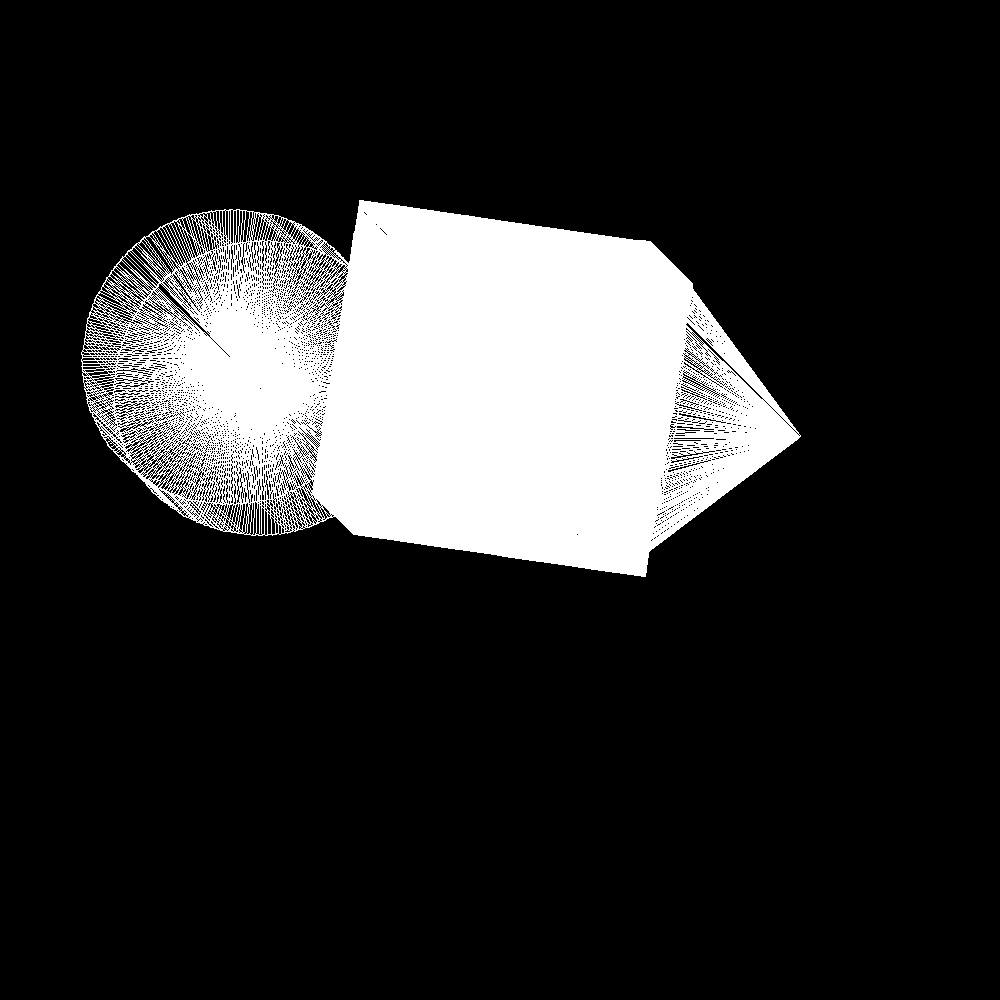
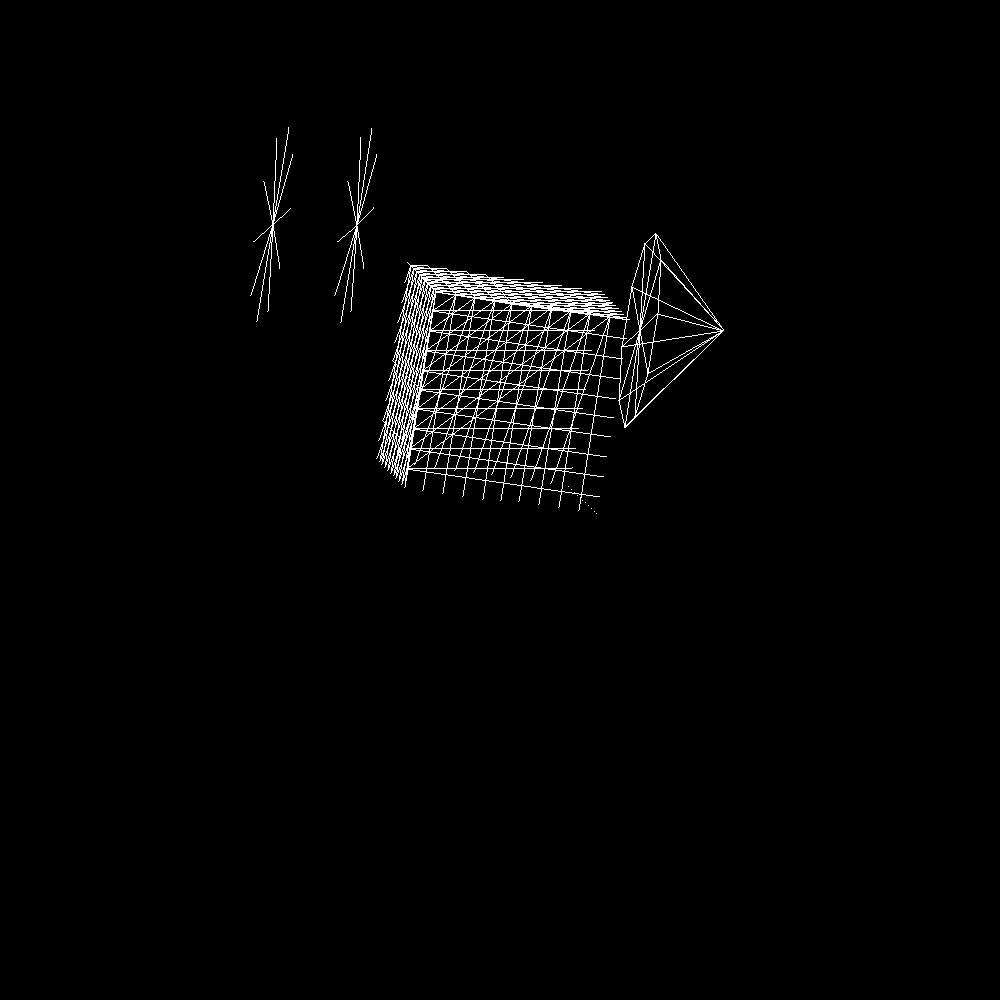
fixed cone, almost done cylinder

Changed region(s): [[0.062, 0.186, 0.806, 0.589]]

diff --git a/a1.py b/a1.py
@@ -402,56 +402,54 @@ def cylinder(resolution, mesh, vol, isScene, xangle, yangle, zangle):
         List -- A dictionary where each key is a coord object, and it maps to a list of coord objects
         List -- A matrix which contains coord objects for each point of the cylinder
     """
-    points, angles = circleCoords(vol, 0, vol, 'x', resolution, vol)
-    finalPoints = []
-    matrix = []
+
+    points = []
+
+    points.append(coords(0, vol, -vol))
+    points.append(coords(0, 0, 0))
+
+    testList = newCirc(resolution, 'z', vol)
+
+    tempList = copy.deepcopy(testList)
+
+    for k in tempList:
+        k.set_y(k.get_y() + vol)
+        k.set_z(k.get_z() - vol)
+
+
+    newList = points + testList + tempList
+
+    print(len(newList))
+
+
+    coordSet = [x for x in testList]
+
     connections = {}
-    for x in points:
-        if x not in finalPoints:
-            finalPoints.append(x)
-
-    coordList = [coords(x[0], x[1], x[2]) for x in finalPoints]
-
-    for k in coordList:
-        k.set_x(k.xCoord)
-        k.set_y(k.yCoord)
-        k.set_z(k.zCoord)
-        matrix.append(k)
-
-    coordSet = [x for x in matrix]
+    faceDict = {}
+    
 
     test = []
 
+    finalConnect = []
+
     if mesh == "tri":
-        test = connectCircle(resolution, coordSet[0], 'x', matrix, vol)
-        connections[coordSet[0]] = test
-    elif mesh == "poly":
-        connections = {}
+        
+        for first, second in zip(newList[2:], newList[3:]):
+            connections[first] = [newList[0], newList[1], second]
+            connections[second] = [newList[0], newList[1], first]
+
+        connections[newList[-1]] = [newList[0], newList[2], newList[1]]
+
+
+        
+
+        
+
+        newMatrix = newList
     else:
         print("not a valid mesh")
         sys.exit(1)
-
-    newMatrix = matrix + test
-
-    secondCircle = copy.deepcopy(newMatrix)
-    secondTest = copy.deepcopy(test)
-
-    for k in secondCircle:
-        k.set_z(k.zCoord + vol*1.5)
-
-    for k in secondTest:
-        k.set_z(k.zCoord + vol*1.5)
-
-    connections[secondCircle[0]] = secondTest
-
-    for k in range(0, len(secondTest)):
-        testing = []
-        testing.append(secondTest[k])
-        connections[test[k]] = testing
-
-    secondMatrix = secondCircle + secondTest
-
-    newMatrix.extend(secondMatrix)
+    
 
     if isScene:
 
@@ -479,6 +477,33 @@ def cylinder(resolution, mesh, vol, isScene, xangle, yangle, zangle):
     return connections, newMatrix
 
 
+def newCirc(res, axis, vol):
+
+
+    r = volume - 1
+    angle = 0
+    connectList = []
+    finalConnect = []
+
+    for i in range(0, res):
+
+        # create an angle between 0 and 2pi that is split evenly by the resolution number
+        angle = i * (6.28 / res)
+
+        # calculate new x and y coordinates that meet the angle specified.
+        if axis == 'x':
+            x = r * math.cos(angle)
+            y = r * math.sin(angle)
+            connectList.append(coords(x, y, -volume))
+        elif axis == 'z':
+            x = r * math.cos(angle)
+            z = r * math.sin(angle)
+            connectList.append(coords(x, 0, z))
+    return connectList
+
+
+
+
 def cone(res, mesh, vol, isScene, xangle, yangle, zangle):
     """Creates a cone
 
@@ -488,68 +513,38 @@ def cone(res, mesh, vol, isScene, xangle, yangle, zangle):
         res {[type]} -- The number of triangles to create
         mesh {[type]} -- the type of mesh to create.
     """
-    points, angles = circleCoords(vol, -vol, vol, 'z', res, vol)
-    finalPoints = []
-    matrix = []
+    
+    points = []
+
+    points.append(coords(0, vol, -vol))
+    points.append(coords(0, 0, 0))
+
+    testList = newCirc(res, 'z', vol)
+
+    newList = points + testList
+
+    print(len(newList))
+
+
+    coordSet = [x for x in testList]
+
     connections = {}
-    for x in points:
-        if x not in finalPoints:
-            finalPoints.append(x)
-
-    coordList = [coords(x[0], x[1], x[2]) for x in finalPoints]
-
-    for k in coordList:
-        k.set_x(k.xCoord)
-        k.set_y(k.yCoord)
-        k.set_z(k.zCoord)
-        matrix.append(k)
-
-    coordSet = [x for x in matrix]
+    faceDict = {}
+    
 
     test = []
 
     finalConnect = []
 
     if mesh == "tri":
-        test = connectCircle(res, coordSet[0], 'z', matrix, volume)
-        for k in test:
-            nearest = min(matrix, key=lambda x: (math.sqrt((k.get_x() - x.get_x())**2 + (k.get_y() - x.get_y())**2 + (k.get_z() - x.get_z())**2)))
-            finalConnect.append(nearest)
 
-        newConnect = finalConnect
+        for first, second in zip(newList[2:], newList[3:]):
+            connections[first] = [newList[0], newList[1], second]
+            connections[second] = [newList[0], newList[1], first]
 
-        connections[coordSet[0]] = finalConnect
-        connections[coordSet[1]] = newConnect
+        connections[newList[-1]] = [newList[0], newList[2], newList[1]]
 
-        print(connections)
-
-        faceDict = {}
-        count = 6
-
-        for first, second in zip(newConnect, newConnect[1:]):
-            connections[first] = [coordSet[0], second]
-            connections[second] = [coordSet[0], first]
-            faceDict[count] = [coordSet[0], first, second]
-            count += 1
-
-        faceDict[count] = [coordSet[0], newConnect[-1], newConnect[0]]
-        count += 1
-
-        for first, second in zip(finalConnect, finalConnect[1:]):
-            connections[first] = [coordSet[1], second]
-            connections[second] = [coordSet[1], first]
-            faceDict[count] = [coordSet[1], first, second]
-            count += 1
-
-        faceDict[count] = [coordSet[1], finalConnect[-1], finalConnect[0]]
-        count += 1
-
-        print("\n\n")
-        print(connections)
-
-
-
-        newMatrix = matrix
+        newMatrix = newList
     else:
         print("not a valid mesh")
         sys.exit(1)
@@ -918,7 +913,7 @@ def scene(mesh, resolution, volume, isScene):
 
     temp = []
 
-    print(pointDict)
+
 
     for k, v in faceDict.items():
 
